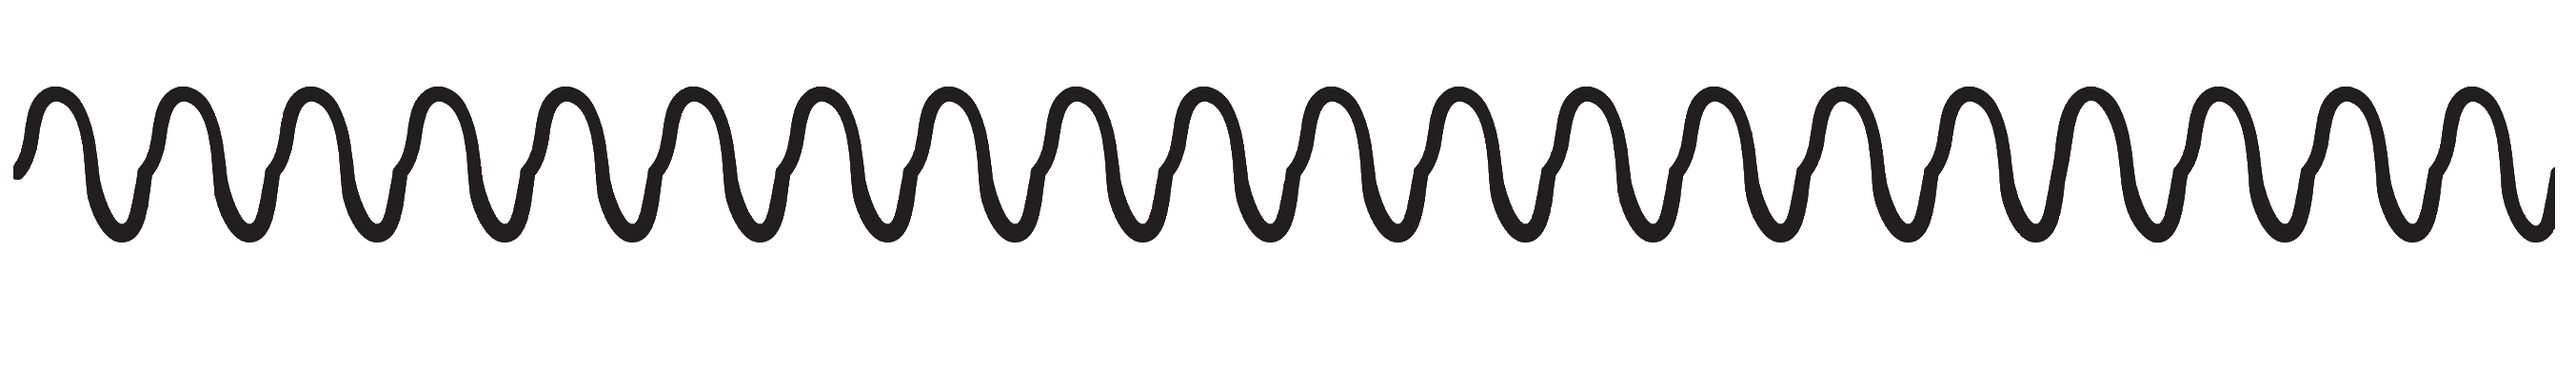
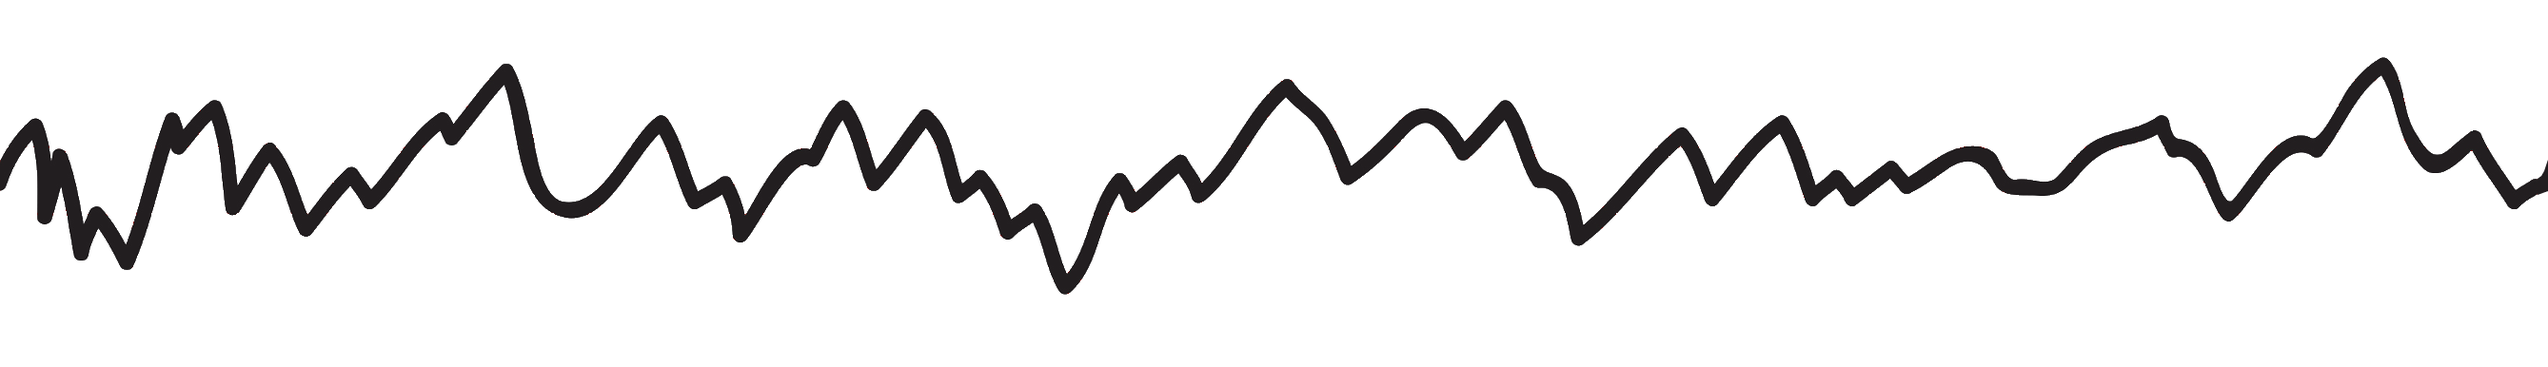
Add ECG animation and fix pads attachement

Changed region(s): [[0.0, 0.1554, 1.0, 0.8083]]

diff --git a/MainWindow.cpp b/MainWindow.cpp
@@ -1,4 +1,5 @@
 #include "MainWindow.h"
+#include <QMovie>
 
 /*
     Function: MainWindow(QWidget *parent)
@@ -217,6 +218,11 @@ void MainWindow::on_powerBtn_toggled(bool checked)
 
         // Disable loss connection selector.
         ui->connectionLoss->setEnabled(false);
+
+        if (ui->cprPadsAttached->isChecked())
+        {
+            ui->cprPadsAttached->setEnabled(false);
+        }
 
         // Disable pads selector.
         ui->padsSelector->setEnabled(false);
@@ -572,11 +578,11 @@ void MainWindow::setPatientCondition()
     Output:
         None
 */
-void MainWindow::updateECGDisplay(const QString &image)
+void MainWindow::updateECGDisplay(const QString &animation)
 {
-    QPixmap pixmap;
-    pixmap.load(image);
-    ui->ecgDisplay->setPixmap(pixmap);
+    QMovie* sinusAnimation = new QMovie(animation);
+    ui->ecgDisplay->setMovie(sinusAnimation);
+    sinusAnimation->start();
 }
 
 /*
@@ -592,15 +598,18 @@ void MainWindow::updateECGDisplay(HeartState state)
     switch (state)
     {
     case SINUS_RHYTHM:
-        updateECGDisplay(QString("://Icons/ECG_SINUS.png"));
+        updateECGDisplay("://Icons/sinus_animation.gif");
         break;
 
     case VENTRICULAR_FIBRILLATION:
-        updateECGDisplay(QString("://Icons/ventricullar_fibrillation.png"));
+        updateECGDisplay("://Icons/ventricullar_fibrillation_animation.gif");
         break;
 
     case VENTRICULAR_TACHYCARDIA:
-        updateECGDisplay(QString("://Icons/ventricular_tachycardia.png"));
+        updateECGDisplay("://Icons/ventricular_tachycardia_animation.gif");
+        break;
+
+    default:
         break;
     }
 }
@@ -715,11 +724,11 @@ void MainWindow::updateGUI(int state)
         if (ui->startWithAsystole->isChecked() &&
             device->getPatientHeartCondition() != SINUS_RHYTHM)
         {
-            updateECGDisplay("://Icons/asystole.png");
+            updateECGDisplay("://Icons/asystole_animation.gif");
         }
         else
         {
-            updateECGDisplay("://Icons/ECG_SINUS.png");
+            updateECGDisplay(SINUS_RHYTHM);
         }
         break;
 
@@ -817,27 +826,24 @@ void MainWindow::on_cprPadsAttached_clicked(bool checked)
     ui->cprPadsAttached->setChecked(checked);
     ui->padsAttachedIndicator->setChecked(checked);
 
+    if (device->getState() > OFF && checked)
+    {
+        // Disable selector once the pads were attached.
+        ui->cprPadsAttached->setEnabled(false);
+    }
+
     if (device->getState() <= ATTACH_PADS && checked)
     {
-        if (device->getState() > OFF)
-        {
-            // Disable selector once the pads were attached.
-            ui->cprPadsAttached->setEnabled(false);
-        }
 
         if (device->getState() == ATTACH_PADS)
         {
             // Display the kind of pads that were attached.
             bool adultPads = ui->padsSelector->currentIndex() == 0;
             setTextMsg(QString("%1 PADS").arg(adultPads ? "ADULT" : "PEDIATRIC"));
+        }
 
-            // Operator is attaching the pads to the patient.
-            device->notifyPadsAttached();
-        }
-        else
-        {
-            device->notifyPadsAttached();
-        }
+        // Operator is attaching the pads to the patient.
+        device->notifyPadsAttached();
     }
 }
 

diff --git a/AED.cpp b/AED.cpp
@@ -209,7 +209,6 @@ void AED::run()
     {
         if (!nextStep(ANALYZING, ANALYZING_TIME, 0)) return;
 
-
         // Change patient to healthy once all shocks have been delivered.
         if (shockable() && i == shockUntilHealthy)
         {

diff --git a/AED.h b/AED.h
@@ -88,7 +88,6 @@ private:
     QMutex restoreConnectionMutex;
     QWaitCondition waitForConnection;
 
-
     MainWindow *gui;
     std::unique_ptr<QThread> m_thread;
 };
